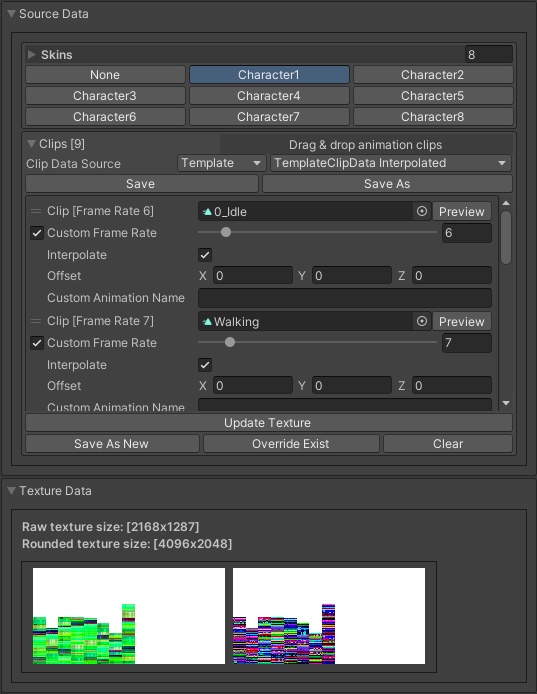
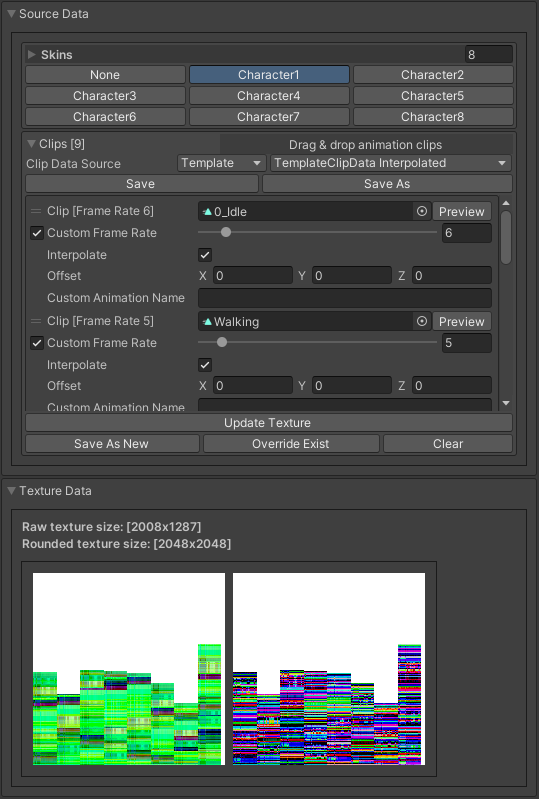
up

diff --git a/docs/source/animationbaker.rst b/docs/source/animationbaker.rst
@@ -85,9 +85,9 @@ Data
 	* **y** : number of vertexes in the skin.
 	
 	.. note::
-		**Texture [882x1588]:**
-			* Texture has 882 animation frames.
-			* Skin size 1588 vertices.
+		**Texture [2008x1287]:**
+			* Texture has 2008 animation frames.
+			* Max skin size 1287 vertices.
 	
 	.. tip:: Texture rounding to the POT4 format is used for texture compression (256x256, 256х512, 512x512, etc...).
 	
